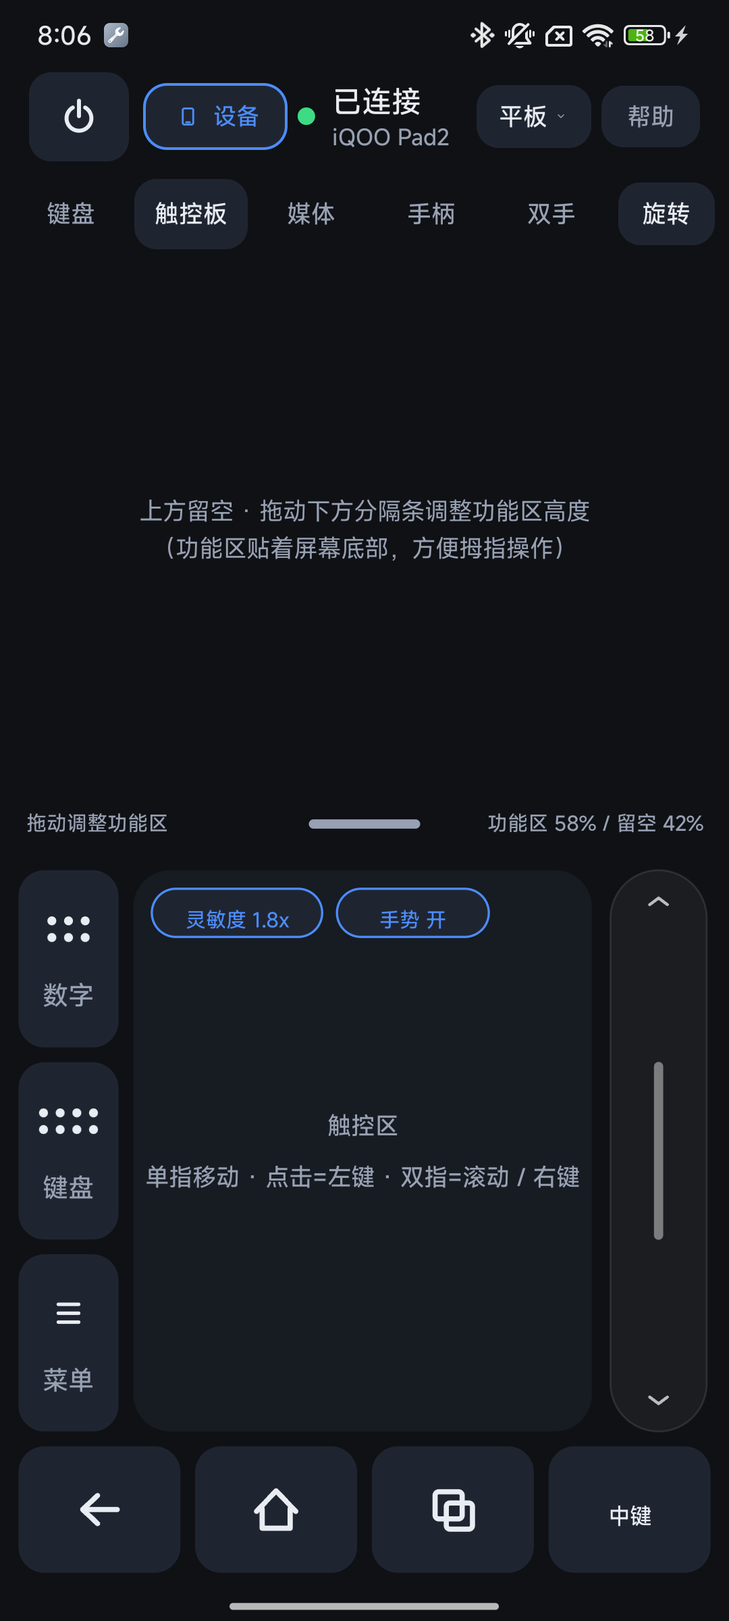
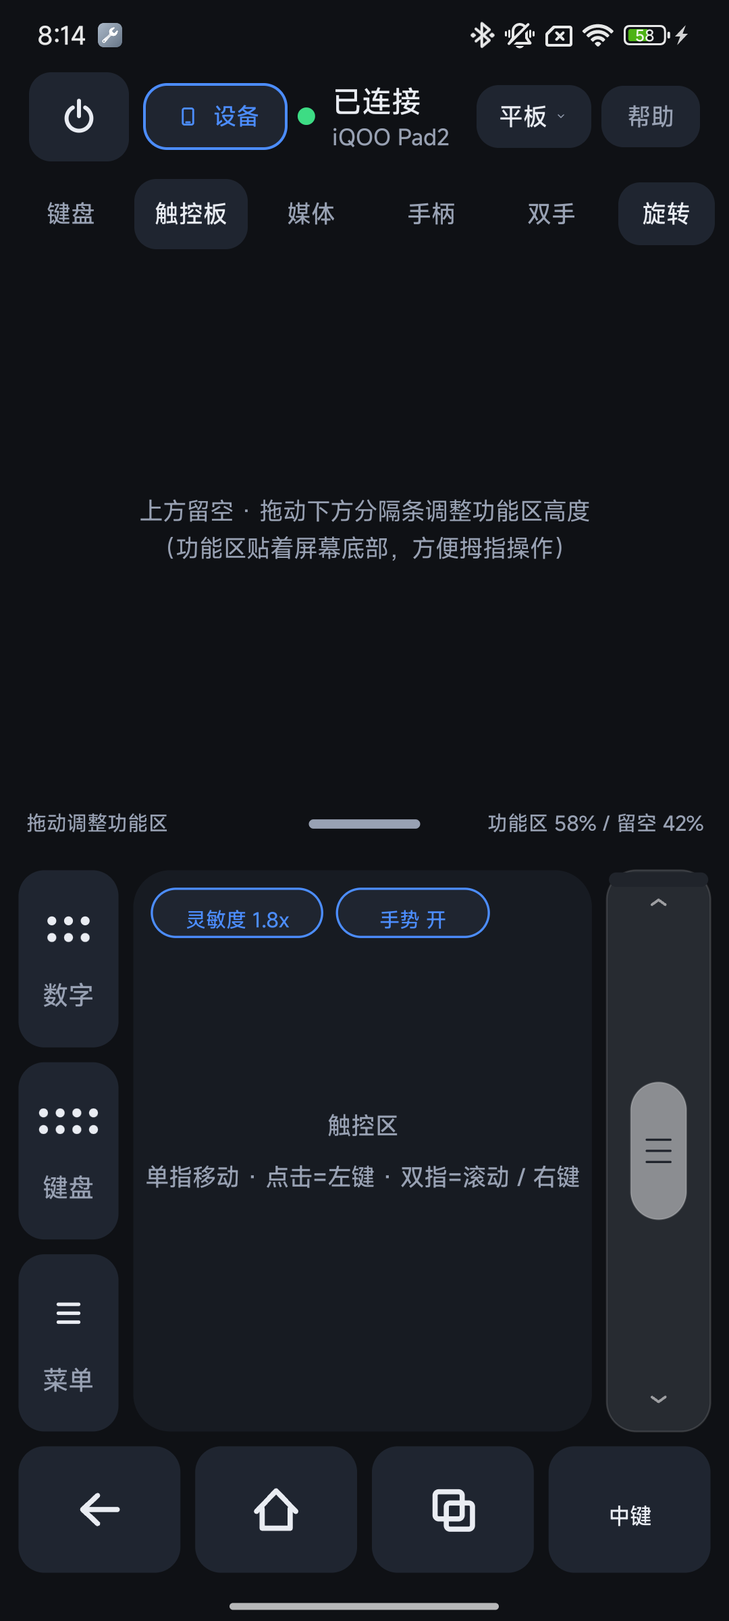
v0.40.0: scroll strip -> macOS capsule slider (user-picked design F)

Changed region(s): [[0.825, 0.5312, 0.9778, 0.9062], [0.0917, 0.0, 0.1833, 0.0312], [0.8556, 0.875, 0.8861, 0.9062]]

diff --git a/app/src/main/java/com/phonekb/ControlPadView.java b/app/src/main/java/com/phonekb/ControlPadView.java
@@ -82,12 +82,27 @@ public class ControlPadView extends View {
     private final Paint gestOnPaint;
     private final Paint gestOffPaint;
     private final Paint middleTextPaint;
-    // 苹果风格滚轮条（v0.40.0）：一条半透明胶囊轨道 + 细箭头 + 白色滑块（iOS/macOS 质感）
-    private final Paint stripTrackPaint = Ui.fill(0x0DFFFFFF);
-    private final Paint stripThumbPaint = Ui.fill(0x6BFFFFFF);
-    private final Paint stripThumbOnPaint = Ui.fill(0xE6FFFFFF);
+    // 苹果风格滚轮条（v0.40.0，F 版 macOS 胶囊滑块）：磨砂胶囊轨道 + 顶部一道高光 +
+    // 上下细 chevron + 一根常驻的 30 dp 磨砂白滑块（中间三条细纹）；按住拖动时滑块变亮并跟随手指。
+    private final Paint stripTrackPaint = Ui.fill(stripBlend(0xFFFFFF, 0.07f, Ui.SURFACE));
+    private final Paint stripSheenPaint = Ui.fill(stripBlend(0xFFFFFF, 0.04f, Ui.SURFACE));
+    private final Paint stripThumbPaint = Ui.fill(stripBlend(0xFFFFFF, 0.50f, Ui.SURFACE));
+    private final Paint stripThumbOnPaint = Ui.fill(stripBlend(0xFFFFFF, 0.88f, Ui.SURFACE));
+    private final Paint stripThumbOffPaint = Ui.fill(stripBlend(0xFFFFFF, 0.18f, Ui.SURFACE));
+    private final Paint stripGripPaint = Ui.fill(stripBlend(0x282C34, 0.55f, Ui.SURFACE));
     private final Paint stripStrokePaint = new Paint(Paint.ANTI_ALIAS_FLAG);
+    private final Paint stripThumbStrokePaint = new Paint(Paint.ANTI_ALIAS_FLAG);
     private final Paint stripChevPaint = new Paint(Paint.ANTI_ALIAS_FLAG);
+
+    /** 把 fg 按 alpha 混到 bg 上（都当不透明 RGB），用来拼出 macOS 那种磨砂色阶。 */
+    private static int stripBlend(int fg, float a, int bg) {
+        int fr = (fg >> 16) & 0xFF, fg2 = (fg >> 8) & 0xFF, fb = fg & 0xFF;
+        int br = (bg >> 16) & 0xFF, bg2 = (bg >> 8) & 0xFF, bb = bg & 0xFF;
+        int r = Math.round(fr * a + br * (1f - a));
+        int g = Math.round(fg2 * a + bg2 * (1f - a));
+        int b = Math.round(fb * a + bb * (1f - a));
+        return 0xFF000000 | (r << 16) | (g << 8) | b;
+    }
 
     private final float margin;
     private final float gap;
@@ -212,13 +227,16 @@ public class ControlPadView extends View {
         gestStrokePaint.setStrokeWidth(Ui.dp(context, 1.2f));
         gestStrokePaint.setColor(Ui.ACCENT);
         stripStrokePaint.setStyle(Paint.Style.STROKE);
-        stripStrokePaint.setStrokeWidth(Ui.dp(context, 1f));
-        stripStrokePaint.setColor(0x1AFFFFFF);
+        stripStrokePaint.setStrokeWidth(Ui.dp(context, 0.9f));
+        stripStrokePaint.setColor(0x21FFFFFF);
+        stripThumbStrokePaint.setStyle(Paint.Style.STROKE);
+        stripThumbStrokePaint.setStrokeWidth(Ui.dp(context, 0.8f));
+        stripThumbStrokePaint.setColor(0x33FFFFFF);
         stripChevPaint.setStyle(Paint.Style.STROKE);
         stripChevPaint.setStrokeCap(Paint.Cap.ROUND);
         stripChevPaint.setStrokeJoin(Paint.Join.ROUND);
-        stripChevPaint.setStrokeWidth(Ui.dp(context, 1.6f));
-        stripChevPaint.setColor(0xB3FFFFFF);
+        stripChevPaint.setStrokeWidth(Ui.dp(context, 1.4f));
+        stripChevPaint.setColor(0x8CFFFFFF);
         gestOnPaint = Ui.text(context, 11, Ui.ACCENT);
         gestOffPaint = Ui.text(context, 11, Ui.TEXT_DIM);
         middleTextPaint = Ui.text(context, 12, Ui.TEXT);
@@ -510,25 +528,31 @@ public class ControlPadView extends View {
     }
 
     /**
-     * 苹果风格滚轮条（v0.40.0）：整条一个半透明胶囊轨道，上下各一个细 chevron，中间一个白色
-     * 滑块。滑块平时细（5 dp）不抢眼，一按就变粗变亮并跟着手指走；对应方向的箭头同时高亮。
+     * 滚轮条（v0.40.0，macOS 胶囊滑块 F 版）：磨砂胶囊轨道 + 顶部一道很淡的高光 + 上下两个细
+     * chevron + 一根常驻的 30 dp 磨砂白滑块（中间三条细纹）。按住拖动时滑块变亮、变粗一点点并
+     * 跟着手指走，对应方向的箭头同时提亮；断开时整体压暗。
      */
     private void drawStrip(Canvas canvas) {
         if (stripRect.isEmpty()) return;
-        // 横屏时这一列很宽，轨道不能跟着变宽（会变成一个大气球）：轨道固定最宽 52 dp，
+        // 横屏时这一列很宽，轨道不能跟着变宽（会撑成一个超宽大胶囊）：轨道固定最宽 56 dp，
         // 居中放在整列里，但命中区仍然是整列，好按。
-        float trackW = Math.min(stripRect.width(), Ui.dp(getContext(), 52f));
+        float trackW = Math.min(stripRect.width(), Ui.dp(getContext(), 56f));
         float cx = stripRect.centerX();
         RectF track = new RectF(cx - trackW / 2f, stripRect.top, cx + trackW / 2f, stripRect.bottom);
-        float radius = trackW / 2f;
+        float radius = Ui.dp(getContext(), 16f);
         canvas.drawRoundRect(track, radius, radius, stripTrackPaint);
         canvas.drawRoundRect(track, radius, radius, stripStrokePaint);
+        // 顶部一道高光，做出玻璃感
+        float sheenInset = Ui.dp(getContext(), 1.2f);
+        RectF sheen = new RectF(track.left + sheenInset, track.top + sheenInset,
+                track.right - sheenInset, track.top + Ui.dp(getContext(), 9f));
+        canvas.drawRoundRect(sheen, Ui.dp(getContext(), 8f), Ui.dp(getContext(), 8f), stripSheenPaint);
 
         boolean active = stripDown;
         boolean connected = hid.isConnected();
-        float inset = Ui.dp(getContext(), 15f);
-        float chevHalf = Ui.dp(getContext(), 4.8f);
-        float chevH = Ui.dp(getContext(), 3.6f);
+        float inset = Ui.dp(getContext(), 16f);
+        float chevHalf = Ui.dp(getContext(), 3.6f);
+        float chevH = Ui.dp(getContext(), 2.6f);
         float topY = track.top + inset;
         float botY = track.bottom - inset;
 
@@ -543,24 +567,34 @@ public class ControlPadView extends View {
         chev.lineTo(cx + chevHalf, botY - chevH);
         canvas.drawPath(chev, chevronPaint(pressedKey == PRESS_SCROLL_DOWN, connected));
 
-        float thumbW = Ui.dp(getContext(), active ? 13f : 5f);
-        float thumbH = Math.max(Ui.dp(getContext(), 40f),
-                Math.min(Ui.dp(getContext(), 96f), track.height() * 0.34f));
-        float minCenter = topY + chevH + Ui.dp(getContext(), 2f) + thumbH / 2f;
-        float maxCenter = botY - chevH - Ui.dp(getContext(), 2f) - thumbH / 2f;
+        // 常驻滑块：宽 30 dp、高 74 dp 的磨砂胶囊（按住时宽 32 dp、略高，看得见"抓起来了"）
+        float thumbW = Ui.dp(getContext(), active ? 32f : 30f);
+        float thumbH = Ui.dp(getContext(), active ? 80f : 74f);
+        float minCenter = topY + chevH + Ui.dp(getContext(), 4f) + thumbH / 2f;
+        float maxCenter = botY - chevH - Ui.dp(getContext(), 4f) - thumbH / 2f;
         float cy = active ? stripTouchY : track.centerY();
         if (cy < minCenter) cy = minCenter;
         if (cy > maxCenter) cy = maxCenter;
         RectF thumb = new RectF(cx - thumbW / 2f, cy - thumbH / 2f, cx + thumbW / 2f, cy + thumbH / 2f);
-        float tr = thumbW / 2f;
-        canvas.drawRoundRect(thumb, tr, tr, active ? stripThumbOnPaint : stripThumbPaint);
+        float tr = Ui.dp(getContext(), 15f);
+        Paint thumbFill = !connected ? stripThumbOffPaint : (active ? stripThumbOnPaint : stripThumbPaint);
+        canvas.drawRoundRect(thumb, tr, tr, thumbFill);
+        canvas.drawRoundRect(thumb, tr, tr, stripThumbStrokePaint);
+        // 三条细纹：一眼看出这根东西可以抓
+        float gripHalf = Ui.dp(getContext(), 7f);
+        float gripW = Ui.dp(getContext(), 1.2f);
+        for (int i = -1; i <= 1; i++) {
+            float gy = cy + i * Ui.dp(getContext(), 6f);
+            RectF g = new RectF(cx - gripHalf, gy - gripW / 2f, cx + gripHalf, gy + gripW / 2f);
+            canvas.drawRoundRect(g, gripW / 2f, gripW / 2f, stripGripPaint);
+        }
     }
 
     /** chevron 的颜色 / 粗细：按下时更白更粗，未连接时整体压暗。 */
     private Paint chevronPaint(boolean on, boolean connected) {
-        stripChevPaint.setStrokeWidth(Ui.dp(getContext(), on ? 2.1f : 1.6f));
+        stripChevPaint.setStrokeWidth(Ui.dp(getContext(), on ? 2f : 1.4f));
         if (!connected) stripChevPaint.setColor(0x4DFFFFFF);
-        else stripChevPaint.setColor(on ? 0xFFFFFFFF : 0xB3FFFFFF);
+        else stripChevPaint.setColor(on ? 0xFFFFFFFF : 0x8CFFFFFF);
         return stripChevPaint;
     }
 

diff --git a/app/src/main/java/com/phonekb/MainActivity.java b/app/src/main/java/com/phonekb/MainActivity.java
@@ -1335,7 +1335,7 @@ public class MainActivity extends Activity {
                         + "电脑布局：顶部一排快捷键 Ctrl+C / Ctrl+V / Ctrl+X / Ctrl+A / Alt+Tab，下面带 Tab、方向键和 Ctrl / Alt / Win，适合敲命令、远程桌面和组合键。\n\n"
                         + "指针灵敏度：触控板页触控卡片左上角的「灵敏度 1.0x」胶囊可以打开设置——指针速度 0.4x–2.5x（1.0x 就是以前的手感）、加速度（快扫自动加速）、滚轮速度（一次滑动滚几行）、上下键按住滚动（慢 = 一格一格挪）、滚轮条灵敏度与抬手惯性；改完对触控板页、触控板浮层、手柄页触控区同时生效，并且会记住。\n\n"
                         + "触控板手势（v0.39.0）：单指点击=左键，双指点击=右键，双指上下滑=滚动（甩一下还会惯性继续滑）；刚点完再按住就能拖着走（点按拖动），松手后左键还按着、下次点击才放下（拖拽锁定，选文字和拖文件很好用）；手指推到触控区边缘会继续加速（边缘续推）；手掌贴屏幕不会乱跳（误触抑制）。平板模式下：双指右滑=返回，三指下滑=主页，三指上滑 / 左右滑=多任务。电脑模式下：双指横滑=横向滚动，双指右滑=后退、左滑=前进，三指上=任务视图、下=显示桌面、左右=切窗口，四指左右=切换虚拟桌面，捏合=Ctrl+滚轮缩放。每一项都在「帮助 → 更多设置 → 触控板手势」里单独开关，触控区左上角还有一颗「手势 开 / 关」胶囊可以一键全关。\n\n"
-                        + "触控板：单指滑动移动指针，单指点击=左键，双指点击=右键，双指上下滑=滚动；右侧是一条 iOS 风格的滚动条（半透明胶囊 + 细白滑块 + 上下小箭头）：点一下就滚一格，按住不动连续慢滚，手指按在条上不抬手上下拖就是跟手的鼠标滚轮（v0.40.0，默认每 10 dp 一格；在指针灵敏度里能调条子灵敏度 / 抬手惯性 / 顺滑度 / 震动）；左侧「数字」弹出数字键盘（输入密码），「键盘」弹出简易手机键盘（带数字行，数字也可用来选输入法的候选词），「菜单」等于平板菜单键。\n\n"
+                        + "触控板：单指滑动移动指针，单指点击=左键，双指点击=右键，双指上下滑=滚动；右侧是一条 macOS 风格的滚动条（磨砂胶囊轨道 + 一根 30 dp 白滑块带三条细纹 + 上下小箭头）：点一下就滚一格，按住不动连续慢滚，手指按在条上不抬手上下拖就是跟手的鼠标滚轮（v0.40.0，默认每 10 dp 一格；在指针灵敏度里能调条子灵敏度 / 抬手惯性 / 顺滑度 / 震动）；左侧「数字」弹出数字键盘（输入密码），「键盘」弹出简易手机键盘（带数字行，数字也可用来选输入法的候选词），「菜单」等于平板菜单键。\n\n"
                         + "媒体页：从上到下是「触控板」快键、媒体卡和常用键卡。媒体卡第一排三个大方键：上一段 ⏮ / 播放暂停 ⏯ / 下一段 ⏭；第二排两个长条：−10s / ＋10s，发的是方向键 ← / →，点一次快退或快进 10 秒，按住连续快退 / 快进（长按约 0.4 秒后每 0.1 秒发一次），上一段 / 下一段键按住也会连续跳。\n\n"
                         + "常用键卡是 2 行 × 5 列的圆形大键：第一排 音量+ / 音量− / 静音 / 截屏 / 多任务，第二排 亮度− / 亮度+ / 返回 / 主页 / 菜单。截屏发的是蓝牙键盘的 PrintScreen 键，Android 会直接截屏；多任务发 Alt+Tab（系统「切换应用」快捷键）。\n\n"
                         + "「帮助 → 更多设置」里可以调：指针点击方式（抬手点击 / 按下即点）、指针上报节奏、触控板手势（开关与详细设置）、长按拖拽阈值（250 / 350 / 450 ms）、极速模式（少震动、移动中不重绘，更跟手）、界面大小，以及指针延迟测量。\n\n"

diff --git a/README.md b/README.md
@@ -22,8 +22,8 @@
 
 这一版新增 / 打磨的内容（README 只介绍当前版本，旧版本说明不保留）：
 
-- **触控板右侧换成 iOS 风格的滚动条（v0.40.0）**：整列变成一条**半透明胶囊轨道 + 细白滑块 + 上下细箭头**（没有文字，一眼看出是滚轮）。点箭头 / 点轨道 = 滚一格，按住 = 连续慢滚，**按在条上不抬手上下拖 = 跟手的鼠标滚轮**；拖动时滑块变粗变亮跟着手指走。横屏这一列很宽时轨道固定最宽 52 dp 居中（命中区仍是整列）。滚轮报文改成**平滑队列**（默认 10 ms 一格，可选更顺 8 ms），不再一抽一抽；震动每 8 格一次、可关
-- **触控板「跟手的滚轮条」（v0.39.2，已被 v0.40.0 换成 iOS 风格）**：点一下箭头还是滚一格，按住还是连续滚，按在滚动列上不抬手上下拖就是鼠标滚轮；灵敏度（慢 24 / 中 16 / 快 10 dp）与抬手惯性在「指针灵敏度」弹窗里调，不受「触控板手势」总开关影响
+- **触控板右侧换成 macOS 风格的滚动条（v0.40.0）**：整列变成一块**磨砂胶囊轨道 + 一根常驻的 30 dp 白滑块（中间三条细纹）+ 上下细箭头**（没有文字，一眼看出是滚轮）。点箭头 / 点轨道 = 滚一格，按住 = 连续慢滚，**按在条上不抬手上下拖 = 跟手的鼠标滚轮**；按住时滑块变白变大一圈跟着手指走。横屏这一列很宽时轨道固定最宽 56 dp 居中（命中区仍是整列）。滚轮报文改成**平滑队列**（默认 10 ms 一格，可选更顺 8 ms），不再一抽一抽；震动每 8 格一次、可关
+- **触控板「跟手的滚轮条」（v0.39.2，v0.40.0 已换成 macOS 胶囊滑块）**：点一下箭头还是滚一格，按住还是连续滚，按在滚动列上不抬手上下拖就是鼠标滚轮；灵敏度（慢 24 / 中 16 / 快 10 dp）与抬手惯性在「指针灵敏度」弹窗里调，不受「触控板手势」总开关影响
 - **触控板上下键按住 = 连续但慢速（v0.39.1）**：点一下还是一格；按住 150 ms 后才开始连滚，默认 **180 ms 一格**（约一秒 5–6 格），在「指针灵敏度」弹窗里可选 **慢 / 中 / 快**（快 = 以前的 70 ms）
 - **触控板变成「笔记本触控板」（v0.39.0）**：新增 **点按拖动**（刚点完再按住就能拖）、**拖拽锁定**（松手后左键还按着，下次点击才放下）、**惯性滚动**（甩一下继续滑）、**自然滚动方向**、**边缘续推**、**误触抑制**（手掌贴屏不乱跳）、**捏合 = Ctrl+滚轮**；平板模式加了 **双指右滑=返回、三指下滑=主页、三指上滑/左右=多任务**，触控板页底部多一颗可配置的 **「中键」**（可改成返回 / 主页）；电脑模式加了 **双指横滑=Shift+滚轮、双指右滑=后退·左滑=前进（Alt+←/→）、三指上=任务视图·下=显示桌面·左右=切窗口、四指左右=切虚拟桌面**。每一项都在「帮助 → 更多设置 → 触控板手势」里独立开关，触控区左上角还有一颗 **「手势 开 / 关」胶囊**一键全关
 - **手柄每个键都能改成别的功能（v0.38.0）**：手柄设置 →「按键映射」，14 个物理键（方向、ABXY、L1/R1/LT/RT、SELECT/START）随便挑一个，改成 **不发送 / 手柄按键 / 方向键 / 键盘键（Esc、Tab、空格、WASD、方向键、数字、Shift、Ctrl…）/ 鼠标左中右 / 媒体键**；三套配置给不同游戏用，「恢复默认」只重置当前这套。面键布局可选 **Xbox / PS / Switch**（只换印字和 A/B、X/Y 位置，与映射互不冲突）。某个游戏不认 A 键？把 A 改成「键盘 空格」或「鼠标 左键」立刻能用
@@ -59,7 +59,7 @@
 - **蓝牙 HID，一装一配**：手机端一个 APK，被控端只需蓝牙配对，不装软件、不 root
 - **电脑模式**：顶栏「平板 / 电脑」折叠按钮一键切换被控设备。电脑模式走同一条蓝牙 HID，Windows 免安装；键盘快捷键条变成 Win / Win+D / Alt+Tab / Win+Shift+S 截屏 / Win+L 锁屏，媒体页常用键变成 截屏 / 任务视图 / 锁屏 / 菜单（Shift+F10），其余页面行为不变
 - **键盘**：手机布局 / 电脑布局两套，含符号页、Ctrl+C/V/X/A、Alt+Tab、方向键
-- **触控板**：单指移动 · 点击左键 · 双指滚动 · 双指点击右键；底部 返回 / 主页 / 后台 / 中键（中键可改成返回或主页）；右侧是 **iOS 风格滚动条**（v0.40.0：半透明胶囊轨道 + 细滑块 + 上下细箭头），点一下一格 / 按住连续慢滚 / **不抬手上下拖 = 跟手滚轮**；一键弹出浮层数字键盘 / 浮层键盘 / 浮层触控板
+- **触控板**：单指移动 · 点击左键 · 双指滚动 · 双指点击右键；底部 返回 / 主页 / 后台 / 中键（中键可改成返回或主页）；右侧是 **macOS 风格滚动条**（v0.40.0：磨砂胶囊轨道 + 30 dp 白滑块三条细纹 + 上下细箭头），点一下一格 / 按住连续慢滚 / **不抬手上下拖 = 跟手滚轮**；一键弹出浮层数字键盘 / 浮层键盘 / 浮层触控板
 - **触控板手势**（v0.39.0）：点按拖动 · 拖拽锁定 · 惯性滚动 · 自然滚动方向 · 边缘续推 · 误触抑制 · 捏合缩放；平板模式 双指右滑=返回、三指下滑=主页、三指上滑/左右=多任务；电脑模式 双指横滑=横向滚动、双指右滑=后退、三指上=任务视图/下=显示桌面/左右=切窗口、四指左右=切虚拟桌面。全部可在「更多设置 → 触控板手势」单独开关
 - **指针灵敏度**：0.4×–2.5× 无极滑块 + 慢/标准/快预设 + 加速度开关 + 滚轮 1–6 行 + 上下键按住滚动 慢/中/快 + 滚轮条灵敏度 · 抬手惯性 · 顺滑度（10 / 8 ms）· 震动开关，四处触控面统一生效
 - **媒体键**：媒体卡 **⏮ 上一段 / ⏯ 播放暂停 / ⏭ 下一段**（按住连发）+ 两颗宽键 **−10s / ＋10s**，发 ← / → 方向键，点一次退 / 进 10 秒、按住连续快退·快进；功能键卡两排 5 个圆键：音量 + / 音量 − / 静音 / 截屏 / 多任务、亮度 − / 亮度 + / 返回 / 主页 / 菜单
@@ -143,9 +143,9 @@
 |---|---|---|
 | ![按键映射](docs/screenshots/38-gamepad-mapping.png) | ![目标选择](docs/screenshots/39-gamepad-mapping-picker.png) | ![横屏映射](docs/screenshots/40-gamepad-mapping-landscape.png) |
 
-**触控板 iOS 风格滚动条（v0.40.0）**
+**触控板 macOS 风格滚动条（v0.40.0）**
 
-| 竖屏滚动条（胶囊轨道 + 细滑块 + 上下细箭头） | 按住拖动时滑块变粗变亮 | 横屏（轨道固定 52 dp 居中） |
+| 竖屏滚动条（磨砂轨道 + 白滑块三条细纹） | 按住拖动时滑块变白变大 | 横屏（轨道固定 56 dp 居中） |
 |---|---|---|
 | ![滚动条竖屏](docs/screenshots/49-scroll-strip-apple-portrait.png) | ![滚动条按住](docs/screenshots/51-scroll-strip-apple-active.png) | ![滚动条横屏](docs/screenshots/50-scroll-strip-apple-landscape.png) |
 

diff --git a/docs/需求与进展.md b/docs/需求与进展.md
@@ -41,9 +41,9 @@
 
 ### 触控板
 - 单指移动、点击左键、双指滚动、双指点击右键、底部「返回 / 主页 / 后台 / 中键」四键（中键可改成鼠标中键 / 返回 / 主页，电脑模式固定鼠标中键）、右侧滚动列
-- **iOS 风格滚动条（0.40.0）**：右侧整列换成一条半透明胶囊轨道 + 细白滑块 + 上下细箭头（无文字）；点箭头/轨道=滚一格，按住=连续慢滚，按在条上不抬手上下拖=跟手鼠标滚轮；拖动时滑块变粗变亮并跟随手指、箭头提亮；横屏轨道固定最宽 52 dp 居中（命中区仍整列）；断开时箭头变暗。实现在 ControlPadView.drawStrip() / chevronPaint()，调试 extra `--ei striptest N`。
+- **macOS 风格滚动条（0.40.0）**：右侧整列换成磨砂胶囊轨道（顶部一道 4% 白高光）+ 常驻 30 dp 白滑块（中间三条细纹）+ 上下细 chevron（半宽 3.6 / 半高 2.6，按下时 100% 白、线宽 1.4→2.0），色阶用 stripBlend(fg,a,SURFACE) 拼：轨道 7%、sheen 4%、滑块 50%（按住 88%、断开 18%）、描边 13% / 20%；点箭头/轨道=滚一格，按住=连续慢滚，按在条上不抬手上下拖=跟手鼠标滚轮；拖动时滑块变粗变亮并跟随手指、箭头提亮；横屏轨道固定最宽 52 dp 居中（命中区仍整列）；断开时箭头变暗。实现在 ControlPadView.drawStrip() / chevronPaint()，调试 extra `--ei striptest N`。
 - **滚轮平滑队列（0.40.0）**：滚轮报文不再「手指一动就一次发一大串」，改为进小队列按固定节奏发（`PointerSettings.stripSmoothMs()` 默认 10 ms，可选 8 ms；队列上限 6 格）；震动由 `STRIP_HAPTIC_EVERY = 8` 格一次且可关（`ptr_strip_haptic`）。
-- **滚轮条（0.39.2，0.40.0 已换成 iOS 风格）**：右侧两颗箭头中间那条竖轨整条可按 —— 点一下箭头=滚一格，按住=连续滚，按在滚动列上不抬手上下拖=跟手鼠标滚轮（"慢 24 / 中 10 / 快 6 dp" 三档 + 抬手惯性 关/开）；不受「触控板手势」总开关影响。
+- **滚轮条（0.39.2，0.40.0 已换成 macOS 胶囊滑块）**：右侧两颗箭头中间那条竖轨整条可按 —— 点一下箭头=滚一格，按住=连续滚，按在滚动列上不抬手上下拖=跟手鼠标滚轮（"慢 24 / 中 10 / 快 6 dp" 三档 + 抬手惯性 关/开）；不受「触控板手势」总开关影响。
 - **触控板上下键按住慢速滚动（0.39.1）**：点一下滚一格；按住 150 ms 才进连续滚动，默认 180 ms 一格（约一秒 5–6 格），「指针灵敏度」弹窗里可选 慢 / 中 / 快（快 = 旧版 70 ms）；设置随指针设置一起保存，触控板页 / 浮层 / 手柄页触控区共用。
 - **手势（0.39.0）**：点按拖动、拖拽锁定、惯性滚动、自然滚动方向、边缘续推、误触抑制、捏合 = Ctrl+滚轮；平板模式 双指右滑=返回 / 三指下滑=主页 / 三指上滑与左右=多任务；电脑模式 双指横滑=Shift+滚轮 / 双指右滑后退·左滑前进 / 三指上=Win+Tab·下=Win+D·左右=Alt+Tab / 四指左右=Ctrl+Win+←/→（默认关）；触控区左上角「手势 开/关」胶囊，全部在「更多设置 → 触控板手势」里单独开关
 - 左侧竖条：数字键盘浮层 / 键盘浮层 / 菜单键

diff --git a/docs/验证记录.md b/docs/验证记录.md
@@ -65,6 +65,7 @@
 | 上下键按住滚动（0.39.1） | 装机 versionCode 71 + `--ei orient 1 --ei tab 1 --ei sensdlg 1` 截图（`docs/screenshots/45-scroll-hold-setting.png`） | **通过**：弹窗新增「上下键按住滚动（慢 = 一格一格挪）」慢/中/快 三档，当前档位「慢」高亮；指针灵敏度 1.8x / 加速度 开 / 滚轮速度 5 行 等原有项不受影响 |
 | 滚轮条编译与打包（0.39.2） | `& .\tools\build.ps1 -Clean` + `dumpsys package` | **通过**：8 步全 OK，`build\PhoneKB.apk` 513 KB，versionCode=72 / versionName=0.39.2（首轮 javac 报 `PadGestures.natural(Context)` 不存在 —— 该方法无参，已改回 `natural()`） |
 | 滚轮条视觉与设置（0.39.2） | 装机 versionCode 72 + `--ei orient 1 --ei tab 1`（竖屏）、`--ei orient 1 --ei tab 1 --ei sensdlg 1`（弹窗）、`--ei orient 2 --ei tab 1`（横屏）截图（`docs/screenshots/46-scroll-strip-portrait.png`、`47-scroll-strip-settings.png`、`48-scroll-strip-landscape.png`） | **通过**：竖屏 / 横屏两根箭头之间出现灰色竖轨（拖动时变蓝）；弹窗新增「滚轮条灵敏度（手指拖多远滚一格）」当前「中」高亮 与「滚轮条抬手惯性（甩一下再滑几格）」当前「关」高亮，且 取消 / 保存 完整可见 |
+| macOS 胶囊滑块视觉（0.40.0，用户选定 F） | 装机 versionCode 74 + `--ei orient 1 --ei tab 1`（竖屏）、`--ei orient 2 --ei tab 1`（横屏）、`--ei orient 1 --ei tab 1 --ei striptest 45`（按住态）截图（`docs/screenshots/49-scroll-strip-apple-portrait.png`、`50-scroll-strip-apple-landscape.png`、`51-scroll-strip-apple-active.png`） | **通过**：竖屏为磨砂胶囊轨道（顶上一道淡高光）+ 30×74 dp 白滑块（三条细纹）+ 上下细 chevron；横屏轨道 56 dp 居中；striptest 45 时滑块变白（88%）变大到 80 dp 高并停在 45% 位置，箭头提亮 |
 | iOS 风格滚动条编译与打包（0.40.0） | `& .\tools\build.ps1 -Clean` + `dumpsys package` | **通过**：8 步全 OK，`build\PhoneKB.apk` 513 KB，versionCode=74 / versionName=0.40.0 |
 | iOS 风格滚动条视觉（0.40.0） | 装机 versionCode 74 + `--ei orient 1 --ei tab 1`（竖屏）、`--ei orient 2 --ei tab 1`（横屏）、`--ei orient 2 --ei tab 1 --ei striptest 40`（拖动态）截图（`docs/screenshots/49-scroll-strip-apple-portrait.png`、`50-scroll-strip-apple-landscape.png`、`51-scroll-strip-apple-active.png`） | **通过**：竖屏为 52 dp 半透明胶囊 + 细白滑块 + 上下细 chevron；横屏轨道固定 52 dp 居中（首版横屏半径=列宽/2 变成大气球，已修）；striptest 40 时滑块变粗变亮、停在 40% 位置、箭头提亮 |
 | 滚轮条顺滑度 / 震动设置（0.40.0） | 装机 + `--ei orient 1 --ei tab 1 --ei sensdlg 1` 截图（`docs/screenshots/52-strip-smooth-settings.png`） | **通过**：弹窗在「滚轮条灵敏度」「滚轮条抬手惯性」之后新增「滚轮条顺滑度（每发一格的间隔）标准 10 ms / 更顺 8 ms」与「滚轮条震动 开 / 关」，当前档位高亮，取消 / 保存完整可见 |

diff --git a/docs/使用说明.md b/docs/使用说明.md
@@ -94,11 +94,11 @@
 ### 触控板
 - 单指移动 → 鼠标移动；单指点击 → 左键；双指点击 → 右键。
 - 双指上下滑 → 滚轮滚动。
-- **右侧滚动条（v0.40.0，iOS 风格）**：整列是一条**半透明胶囊轨道 + 细白滑块 + 上下细箭头**，没有文字，形状本身就在说「这里可以滚」。
+- **右侧滚动条（v0.40.0，macOS 风格）**：整列是一块**磨砂胶囊轨道 + 一根常驻的 30 dp 白滑块（中间三条细纹）+ 上下细箭头**，没有文字，形状本身就在说「这里可以滚」。
   - **点箭头 / 点轨道** = 滚一格（立即响应）；**按住不动** = 连续慢滚（节奏＝「上下键按住滚动」那一档，默认 180 ms 一格）
   - **按在条上不抬手、上下拖** = 跟手的鼠标滚轮：手指滑一段距离发一格，滑多远滚多远
-  - 拖动时滑块**变粗变亮**并跟着手指走，上下箭头一起提亮；断开 / 未连接时箭头变暗
-  - 横屏这一列很宽时，轨道**固定最宽 52 dp 居中**（不会撑成大气球），但**命中区仍是整列**
+  - 按住时滑块**变白、变大一圈**并跟着手指走，上下箭头一起提亮；断开 / 未连接时滑块和箭头一起压暗
+  - 横屏这一列很宽时，轨道**固定最宽 56 dp 居中**（不会撑成超宽大胶囊），但**命中区仍是整列**
   - 「灵敏度」弹窗里可调：**滚轮条灵敏度**（慢 24 / 中 10 dp… 见弹窗）、**抬手惯性**（甩一下再滑 1–4 格，默认关）、**顺滑度**（标准 10 ms / 更顺 8 ms）、**震动**（开＝每 8 格轻震一下）
   - 它不占「触控板手势」的总开关，关掉手势照样能滚。
 - 底部四个按键：**返回 / 主页 / 后台 / 中键**，都支持按住拖动（拖拽文件、选中等场景）。「中键」发什么可以在「更多设置 → 触控板手势 → 「中键」发送什么」里改成 **鼠标中键 / 返回 / 主页**（电脑模式固定是鼠标中键）。

diff --git a/CHANGELOG.md b/CHANGELOG.md
@@ -8,16 +8,16 @@
 
 ## 一、这一版新增（v0.40.0）
 
-### 右侧滚动列换成 iOS 风格的「滚动指示条」
+### 右侧滚动列换成 macOS 风格的「胶囊滑块」
 以前滚动列是两颗箭头键 + 中间一条细缝，看着就是两个普通按键，一眼看不出「这里是滚轮」，跟整体风格也不搭。
 
-这一版把整列换成 iOS / macOS 风格的滚动条：一条半透明胶囊轨道 + 一根细白滑块 + 上下两枚细箭头，一个字的说明都没有，形状本身就是「这里可以滚」。
+这一版把整列换成 macOS 质感的滚动条：一块**磨砂胶囊轨道**（顶上还有一道很淡的高光）+ **一根常驻的 30 dp 白滑块**（中间三条细纹，一看就知道能抓）+ 上下两枚细箭头，一个字的说明都没有，形状本身就是「这里可以滚」。
 
 - **点箭头 / 点轨道** = 还是滚一格（立即响应，和以前一样）
 - **按住不动** = 还是连续慢滚（节奏就是上一版调的「上下键按住滚动」那一档）
 - **按在条上不抬手、上下拖** = 跟手的鼠标滚轮
-- 拖动时滑块**变粗、变亮**并跟着手指走，上下箭头也一起提亮；断开 / 未连接时箭头变暗
-- 横屏时这一列很宽，轨道**固定最宽 52 dp 居中**（不会撑成一个大气球），但**命中区仍然是整列**，随便按
+- 按住时滑块**变白、变大一圈**并跟着手指走，上下箭头也一起提亮；断开 / 未连接时滑块和箭头一起压暗
+- 横屏时这一列很宽，轨道**固定最宽 56 dp 居中**（不会撑成一个超宽大胶囊），但**命中区仍然是整列**，随便按
 - 轨道是半透明的，不抢触控区的视觉重心
 
 ### 滚轮条不卡了（顺滑度可调）

diff --git a/docs/发布指南.md b/docs/发布指南.md
@@ -5,7 +5,7 @@
 **当前线上版本：v0.37.8（手机端 0.37.8）**
 Release：https://github.com/linxun314/phonekb/releases/tag/v0.37.8
 
-**线上最新：v0.37.8（已发 Release）；工作区待发布：v0.40.0（手机端 0.40.0 / 74）—— 触控板右侧换成 iOS 风格滚动条（半透明胶囊轨道 + 细滑块 + 上下细箭头）+ 滚轮平滑队列（10 ms / 8 ms 可调、震动可关），并含此前未发布的 v0.39.2 滚轮条、v0.39.1 上下键按住慢速滚动、v0.39.0 触控板手势、v0.38.0 手柄按键映射**
+**线上最新：v0.37.8（已发 Release）；工作区待发布：v0.40.0（手机端 0.40.0 / 74）—— 触控板右侧换成 macOS 风格滚动条（磨砂胶囊轨道 + 30 dp 白滑块三条细纹 + 上下细箭头）+ 滚轮平滑队列（10 ms / 8 ms 可调、震动可关），并含此前未发布的 v0.39.2 滚轮条、v0.39.1 上下键按住慢速滚动、v0.39.0 触控板手势、v0.38.0 手柄按键映射**
 
 以下命令都在仓库根目录 `C:\Users\22453\Desktop\phoneKB` 执行。
 
@@ -39,7 +39,7 @@ git push --tags
 
 1. 仓库 → Releases → **Create a new release**
 2. Tag 选 `v0.40.0`，Target 选 `main`
-3. 标题：`v0.40.0 — 触控板右侧换成 iOS 风格滚动条，滚起来不卡了`
+3. 标题：`v0.40.0 — 触控板右侧换成 macOS 风格滚动条，滚起来不卡了`
 4. 描述直接从 [CHANGELOG.md](../CHANGELOG.md) 复制（只写当前版本）
 5. 上传一个 Asset（重命名后上传）：`build\PhoneKB.apk` → `PhoneKB-0.40.0.apk`
 6. **Publish release**
